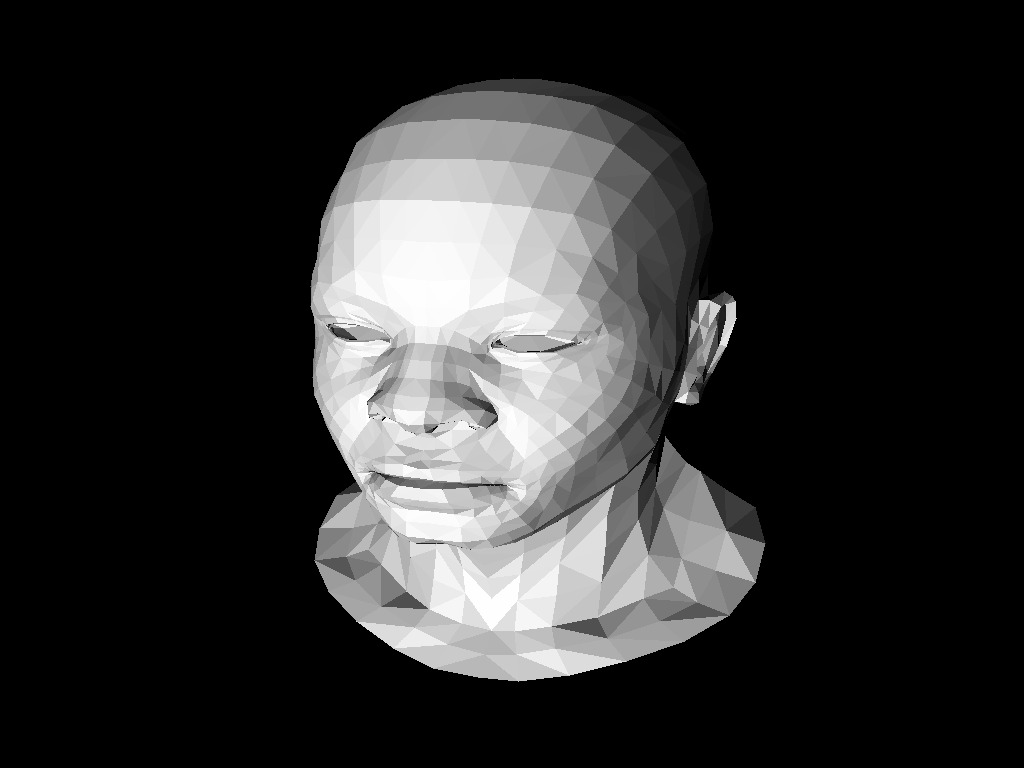
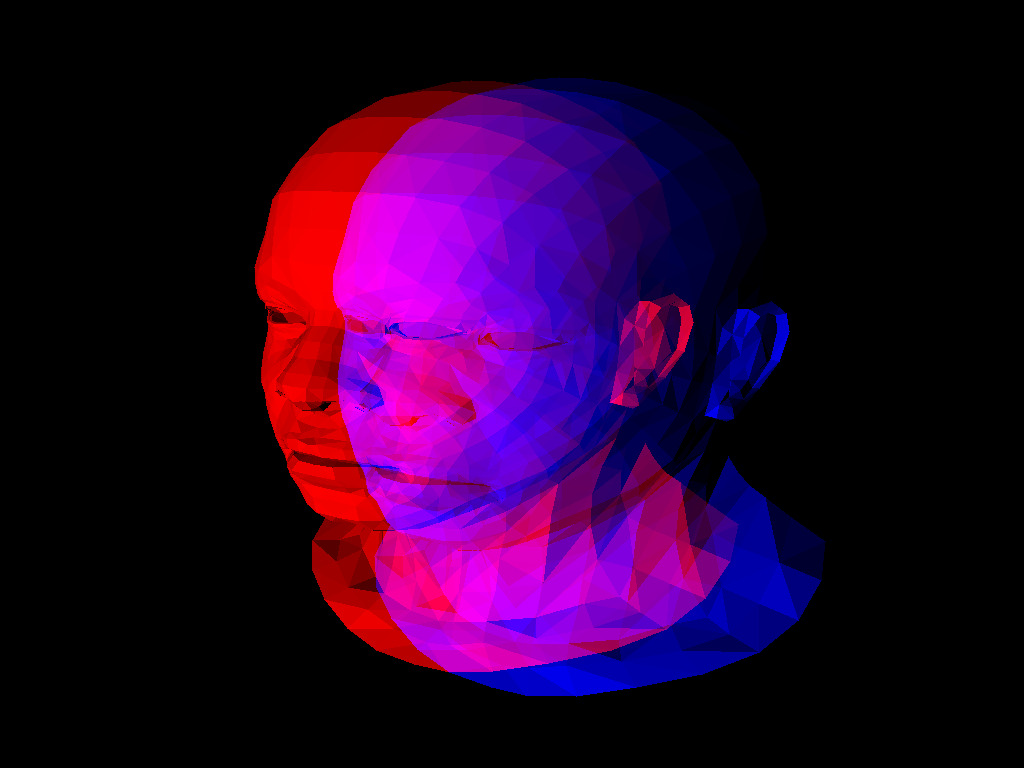
Ajout du rendu en anaglyphe

diff --git a/obj_render.cpp b/obj_render.cpp
@@ -10,35 +10,48 @@ const int width = 1024;
 const int height = 768;
 
 Vec3f light_dir(0,0,-1);
-Vec3f camera_pos(1,1,3);
+Vec3f camera_pos(2,1,3);
 
-void render(Model &model) {
+void render(Model* model, bool _3D) {
    
-    float zbuffer[width * height];
+    float* zbuffer = new float[width * height];
+    float* zbuffer_red = new float[width * height];
+    float* zbuffer_blue = new float[width * height];
     
     for (int i = 0; i < width * height; i++)
     {
         zbuffer[i] = -std::numeric_limits<float>::max();
+        zbuffer_blue[i] = -std::numeric_limits<float>::max();
+        zbuffer_red[i] = -std::numeric_limits<float>::max();
     }
     
     Image img(width , height);  
+    Image img_red(width , height);  
+    Image img_blue(width , height);  
 
     Camera cam(camera_pos, img, PERSPECTIVE);
 
     std::cout << "Sorting triangle " ; 
-    model.sort_faces();
+    model->sort_faces();
 
     std::cout << "Drawing triangle " ; 
 
     //Dessin des triangles du model
-    for (int i = 0; i < model.nfaces() ; i++)
+    for (int i = 0; i < model->nfaces() ; i++)
     {
-        std::vector<int> face = model.face(i); 
+        std::vector<int> face = model->face(i); 
         Vec3f screen_coords[3];
         Vec3f world_coords[3]; 
+
+        Vec3f screen_coords_left_eye[3];
+        Vec3f screen_coords_right_eye[3];
+
         for (int j=0; j<3; j++) { 
-            Vec3f v = model.vert(face[j]); 
+            Vec3f v = model->vert(face[j]); 
             screen_coords[j] = cam.camera_transform(v);
+
+            cam.camera_transform_analygraph(v, screen_coords_left_eye[j], screen_coords_right_eye[j] );
+
             world_coords[j]  = v; 
         }
 
@@ -46,10 +59,18 @@ void render(Model &model) {
         norm_triangle.normalize();
         float intensity = norm_triangle * light_dir;
         if(intensity > 0) {
-            triangle(screen_coords, zbuffer, img, Vec3f(intensity, intensity, intensity));
+            if(_3D) {
+                triangle(screen_coords_left_eye,  zbuffer_red, img_red, Vec3f(intensity, 0, 0));
+                triangle(screen_coords_right_eye, zbuffer_blue, img_blue, Vec3f(0, 0, intensity));
+            } else {
+                triangle(screen_coords, zbuffer, img, Vec3f(intensity, intensity, intensity));
+            }
+
         }
     }
-    
+    if(_3D) 
+        img = img_red.fusionner(img_blue);
+
     std::cout << "\nFliping image ..." << std::endl; 
     img.flip(VERTICAL_FLIP);
 
@@ -61,16 +82,27 @@ void render(Model &model) {
 
 int main(int argc, char const ** argv)
 {
-    std::string file_obj = "./model/duck.obj";
+    std::string file_obj = "./model/head.obj";
     
-    if(argc == 2) {
-       file_obj = std::string(argv[1]) ;
+    bool _3Dmode = true;
+
+    if(argc >= 2) {
+        for (int i = 1; i <= 2 && i < argc; i++)
+        {
+            if ( std::string(argv[i]) == "--no-3d" ){
+                _3Dmode = false;
+                std::cout << "*** Disabled 3D ***"  << std::endl;
+
+            } else {
+                file_obj = std::string(argv[i]) ;
+            }
+        }
     }
     
     std::cout << "Loading model " << file_obj << std::endl;
-    Model model(file_obj.c_str());
+    Model* model = new Model(file_obj.c_str());
     
-    render(model);
+    render(model, _3Dmode);
     
     return 0;
 }

diff --git a/camera.cpp b/camera.cpp
@@ -1,6 +1,7 @@
 #include "camera.hpp"
 
 const int depth = 255;
+const float ecart_analygraphe = 0.25;
 
 Camera::Camera(Vec3f position, Image i, int m) : eye(position), mode(m) {
     ViewPort = Matrix::identity(4);
@@ -29,6 +30,16 @@ Camera::Camera(Vec3f position, Image i, int m) : eye(position), mode(m) {
 Vec3f Camera::m2v(Matrix m) {
     return Vec3f(int(m[0][0]/m[3][0] + 0.5), int(m[1][0]/m[3][0] + 0.5), m[2][0]/m[3][0]);
 };
+
+Matrix Camera::translate(float x, float y , float z) {
+    Matrix R = Matrix::identity(4);
+
+    R[0][3] = x;
+    R[1][3] = y;
+    R[2][3] = z;
+
+    return R;
+}
 
 Matrix Camera::v2m(Vec3f v) {
     Matrix m(4,1);
@@ -64,4 +75,24 @@ Vec3f Camera::camera_transform(Vec3f p) {
     }
 
     return m2v(res * ModelView * v2m(p));
+}
+
+void Camera::camera_transform_analygraph(Vec3f p, Vec3f& le, Vec3f& re) {
+    Matrix res = ViewPort;
+
+    if (mode == PERSPECTIVE)
+    {
+        res = res * Projection;
+    }
+    
+    Matrix trans_left =  translate(- ( ecart_analygraphe / 2.f),0 ,0);
+    Matrix trans_right = translate(    ecart_analygraphe / 2.f ,0 ,0);
+
+    Matrix ModelView = lookat();
+
+    Matrix ModelViewLeft  = ModelView * trans_left;
+    Matrix ModelViewRight = ModelView * trans_right;
+
+    le = m2v(res * ModelViewLeft  * v2m(p));
+    re = m2v(res * ModelViewRight * v2m(p));
 }

diff --git a/image.cpp b/image.cpp
@@ -81,3 +81,17 @@ Vec3f Image::getPixel(const int x, const int y) {
     else 
         return Vec3f(0,0,0);
 }
+
+Image Image::fusionner(Image& i) {
+    Image res(width, height);
+
+    for (int j = 0; j < width * height; j++)
+    {
+        res.setPixel(j % width, j / width , Vec3f( framebuffer[j].x + i.framebuffer[j].x, 
+                                                  framebuffer[j].y + i.framebuffer[j].y,                                  
+                                                  framebuffer[j].z + i.framebuffer[j].z                                  
+                                                ) );
+    }
+    
+    return res;
+}

diff --git a/camera.hpp b/camera.hpp
@@ -20,9 +20,12 @@ class Camera {
         Vec3f  m2v(Matrix m);
         Matrix v2m(Vec3f m);
         Matrix lookat();
+        Matrix translate(float x, float y , float z);
+        
     public:
         Camera(Vec3f pos, Image render, int mode);
         Vec3f camera_transform(Vec3f world_point);
+        void camera_transform_analygraph(Vec3f world_point, Vec3f& left_eye, Vec3f& right_eye);
 
 };
 

diff --git a/image.hpp b/image.hpp
@@ -21,6 +21,7 @@ public:
     void flip(const int type);
     int get_width();
     int get_height();
+    Image fusionner(Image& img);
 };
 
 #endif //__IMAGE_H__
